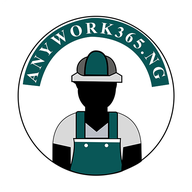
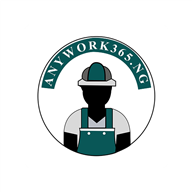
update

diff --git a/src/app/onboarding/page.tsx b/src/app/onboarding/page.tsx
@@ -4,7 +4,7 @@ import { useState, useEffect, useCallback, useRef } from 'react'
 import { useRouter } from 'next/navigation'
 import Image from 'next/image'
 
-const ONBOARDING_KEY = 'anywork365_onboarding_done'
+const ONBOARDING_KEY = 'anywork365_onboarding_seen'
 
 const slides = [
   {
@@ -53,17 +53,12 @@ export default function OnboardingPage() {
   const timerRef = useRef<ReturnType<typeof setTimeout> | undefined>(undefined)
 
   useEffect(() => {
-    if (localStorage.getItem(ONBOARDING_KEY)) {
-      router.replace('/login')
-      return
-    }
-
     const splashTimer = setTimeout(() => {
       setShowSplash(false)
     }, 1200)
 
     return () => clearTimeout(splashTimer)
-  }, [router])
+  }, [])
 
   useEffect(() => {
     return () => {
@@ -72,11 +67,11 @@ export default function OnboardingPage() {
   }, [])
 
   const complete = useCallback(() => {
-    localStorage.setItem(ONBOARDING_KEY, 'true')
+    sessionStorage.setItem(ONBOARDING_KEY, 'true')
     document.documentElement.classList.add('page-exit')
     timerRef.current = setTimeout(() => {
       document.documentElement.classList.remove('page-exit')
-      router.replace('/login')
+      router.replace('/')
     }, 300)
   }, [router])
 
@@ -230,12 +225,12 @@ function OnboardingSplash() {
       <div className="relative flex flex-col items-center">
         <div className="mb-6 flex h-28 w-28 items-center justify-center rounded-lg border border-white/10 bg-white shadow-[0_22px_60px_rgba(0,0,0,0.24)]">
           <Image
-            src="/anyworks-logo.png"
+            src="/logo.png"
             alt="Anywork365.ng"
-            width={180}
-            height={56}
+            width={512}
+            height={512}
             priority
-            className="h-auto w-24 object-contain"
+            className="h-24 w-24 object-contain"
           />
         </div>
 

diff --git a/src/components/layout/BrandLogo.tsx b/src/components/layout/BrandLogo.tsx
@@ -14,15 +14,15 @@ type BrandLogoProps = {
 
 const SIZE_STYLES = {
   sm: {
-    wrapper: 'h-10 max-w-[140px] sm:max-w-[160px]',
+    wrapper: 'h-10 w-10',
     image: 'h-full w-auto max-w-full',
   },
   md: {
-    wrapper: 'h-11 max-w-[160px] sm:h-12 sm:max-w-[220px]',
+    wrapper: 'h-11 w-11 sm:h-12 sm:w-12',
     image: 'h-full w-auto max-w-full',
   },
   lg: {
-    wrapper: 'h-14 max-w-[220px] sm:h-16 sm:max-w-[280px]',
+    wrapper: 'h-16 w-16 sm:h-20 sm:w-20',
     image: 'h-full w-auto max-w-full',
   },
 } as const
@@ -39,12 +39,12 @@ export function BrandLogo({
   const content = (
     <span className={cn('inline-flex min-w-0 items-center', styles.wrapper, className)}>
       <Image
-        src="/anyworks-logo.png"
+        src="/logo.png"
         alt="Anywork365.ng"
-        width={640}
-        height={128}
+        width={512}
+        height={512}
         priority={priority}
-        sizes="(max-width: 640px) 140px, (max-width: 1024px) 220px, 280px"
+        sizes="(max-width: 640px) 40px, (max-width: 1024px) 48px, 80px"
         className={cn('block', styles.image, imageClassName)}
       />
     </span>

diff --git a/capacitor-public/index.html b/capacitor-public/index.html
@@ -18,17 +18,20 @@
       padding: 24px;
     }
     .logo {
-      width: 72px;
-      height: 72px;
-      background: rgba(255,255,255,0.15);
-      border-radius: 20px;
+      width: 96px;
+      height: 96px;
+      background: #fff;
+      border-radius: 24px;
       display: flex;
       align-items: center;
       justify-content: center;
-      font-size: 32px;
-      font-weight: 800;
-      color: #fff;
-      letter-spacing: -1px;
+      overflow: hidden;
+      box-shadow: 0 18px 50px rgba(0,0,0,0.22);
+    }
+    .logo img {
+      width: 100%;
+      height: 100%;
+      object-fit: contain;
     }
     .spinner {
       width: 28px;
@@ -43,7 +46,7 @@
   </style>
 </head>
 <body>
-  <div class="logo">A</div>
+  <div class="logo"><img src="./logo.png" alt="Anywork365" /></div>
   <div class="spinner"></div>
   <p>Loading Anywork365…</p>
 </body>

diff --git a/src/components/OnboardingGuard.tsx b/src/components/OnboardingGuard.tsx
@@ -3,7 +3,7 @@
 import { useEffect, useState } from 'react'
 import { useRouter, usePathname } from 'next/navigation'
 
-const ONBOARDING_KEY = 'anywork365_onboarding_done'
+const ONBOARDING_KEY = 'anywork365_onboarding_seen'
 
 export function OnboardingGuard({ children }: { children: React.ReactNode }) {
   const router = useRouter()
@@ -17,11 +17,12 @@ export function OnboardingGuard({ children }: { children: React.ReactNode }) {
       setReady(true)
       return
     }
-    const done = localStorage.getItem(ONBOARDING_KEY)
-    if (!done) {
-      router.replace('/onboarding')
-    } else {
+
+    const seen = sessionStorage.getItem(ONBOARDING_KEY)
+    if (seen) {
       setReady(true)
+    } else {
+      router.replace('/onboarding')
     }
   }, [pathname, router])
 

diff --git a/src/components/layout/Navbar.tsx b/src/components/layout/Navbar.tsx
@@ -104,7 +104,7 @@ export function Navbar() {
         <div className="max-w-7xl mx-auto px-4 sm:px-6 lg:px-8">
           <div className="flex items-center justify-between gap-3 h-16">
 
-            <BrandLogo size="md" priority className="min-w-0 flex-1 md:flex-none" imageClassName="object-contain" />
+            <BrandLogo size="md" priority imageClassName="object-contain" />
 
             <nav className="hidden md:flex items-center gap-0.5">
               {navLinks.map((link) => (

diff --git a/public/push-sw.js b/public/push-sw.js
@@ -5,8 +5,8 @@ self.addEventListener("push", function (event) {
 
   const options = {
     body: data.body,
-    icon: "/anyworks-logo.png",
-    badge: "/anyworks-logo.png",
+    icon: "/logo.png",
+    badge: "/logo.png",
     vibrate: [100, 50, 100],
     data: {
       url: data.url || "/messages",

diff --git a/src/hooks/usePushNotifications.ts b/src/hooks/usePushNotifications.ts
@@ -98,7 +98,7 @@ export function showLocalNotification(title: string, body: string, icon?: string
 
   new Notification(title, {
     body,
-    icon: icon || '/anyworks-logo.png',
-    badge: '/anyworks-logo.png',
+    icon: icon || '/logo.png',
+    badge: '/logo.png',
   })
 }
